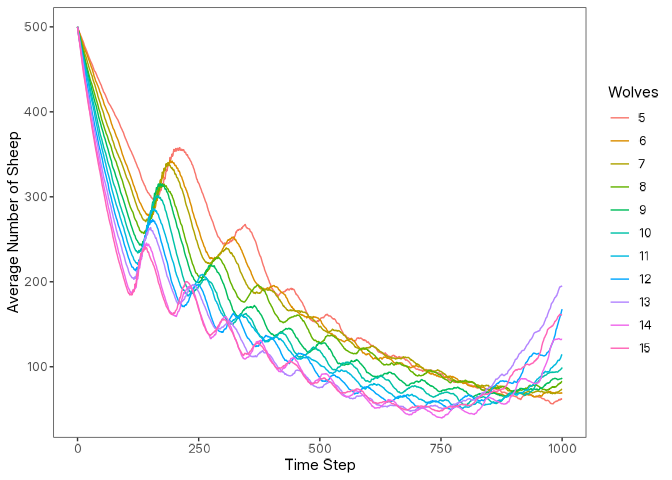
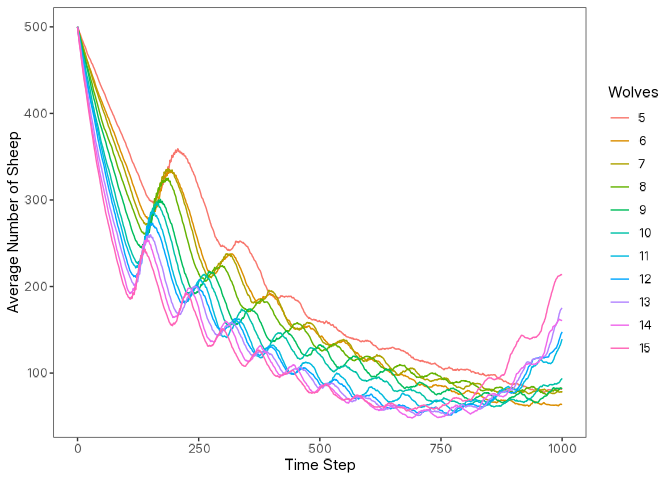
Add `pkgcheck.yaml`

diff --git a/README.md b/README.md
@@ -16,6 +16,8 @@ Downloads](https://cranlogs.r-pkg.org/badges/grand-total/logolink)](https://dani
 badge](https://img.shields.io/badge/doi-10.32614/CRAN.package.logolink-1284C5.svg)](https://doi.org/10.32614/CRAN.package.logolink)
 [![R build
 status](https://github.com/danielvartan/logolink/workflows/R-CMD-check.yaml/badge.svg)](https://github.com/danielvartan/logolink/actions)
+[![R build
+status](https://github.com/danielvartan/logolink/workflows/pkgcheck.yaml/badge.svg)](https://github.com/danielvartan/logolink/actions)
 [![CRAN
 checks](https://badges.cranchecks.info/summary/logolink.svg)](https://cran.r-project.org/web/checks/check_results_logolink.html)
 [![](https://codecov.io/gh/danielvartan/logolink/branch/main/graph/badge.svg)](https://app.codecov.io/gh/danielvartan/logolink)
@@ -234,7 +236,7 @@ library(dplyr)
 results |> glimpse()
 #> List of 2
 #>  $ metadata:List of 6
-#>   ..$ timestamp       : POSIXct[1:1], format: "2026-01-18 21:52:23"
+#>   ..$ timestamp       : POSIXct[1:1], format: "2026-01-19 15:35:01"
 #>   ..$ netlogo_version : chr "7.0.3"
 #>   ..$ output_version  : chr "2.0"
 #>   ..$ model_file      : chr "Wolf Sheep Simple 5.nlogox"
@@ -251,7 +253,7 @@ results |> glimpse()
 #>   ..$ energy_gain_from_sheep: num [1:110110] 5 5 5 5 5 5 5 5 5 5 ...
 #>   ..$ step                  : num [1:110110] 0 1 2 3 4 5 6 7 8 9 ...
 #>   ..$ count_wolves          : num [1:110110] 5 5 5 5 5 5 5 5 5 5 ...
-#>   ..$ count_sheep           : num [1:110110] 500 497 494 490 489 487 486 483 481 479 ...
+#>   ..$ count_sheep           : num [1:110110] 500 500 500 499 496 494 491 489 487 486 ...
 ```
 
 If you already have a file with experiment results, you can read it into
